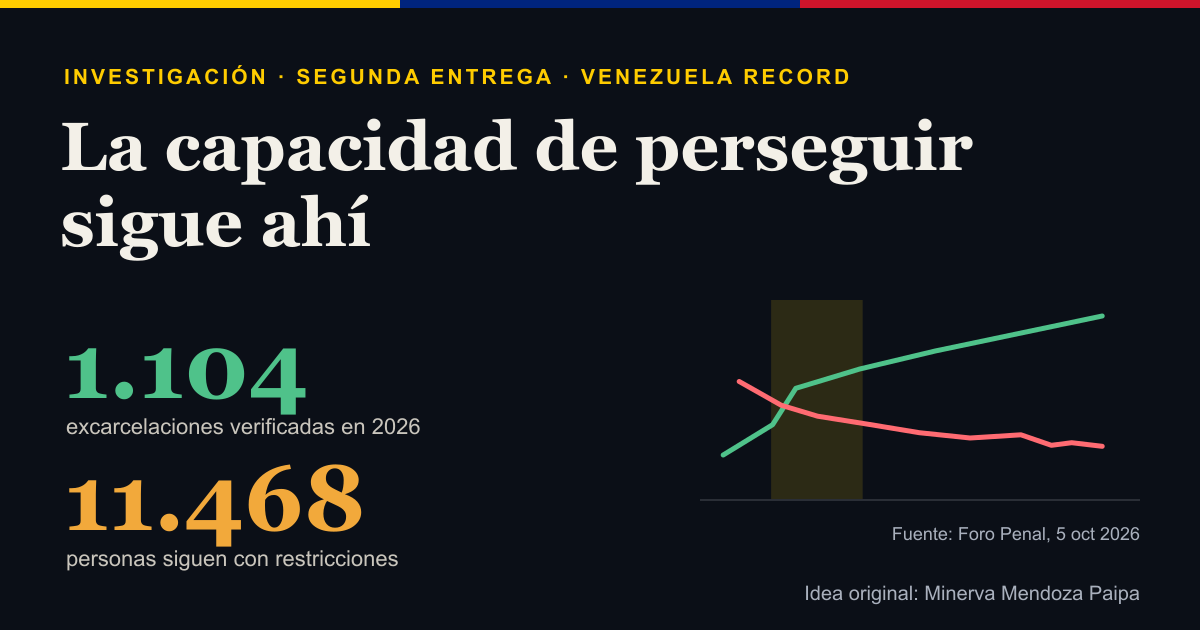
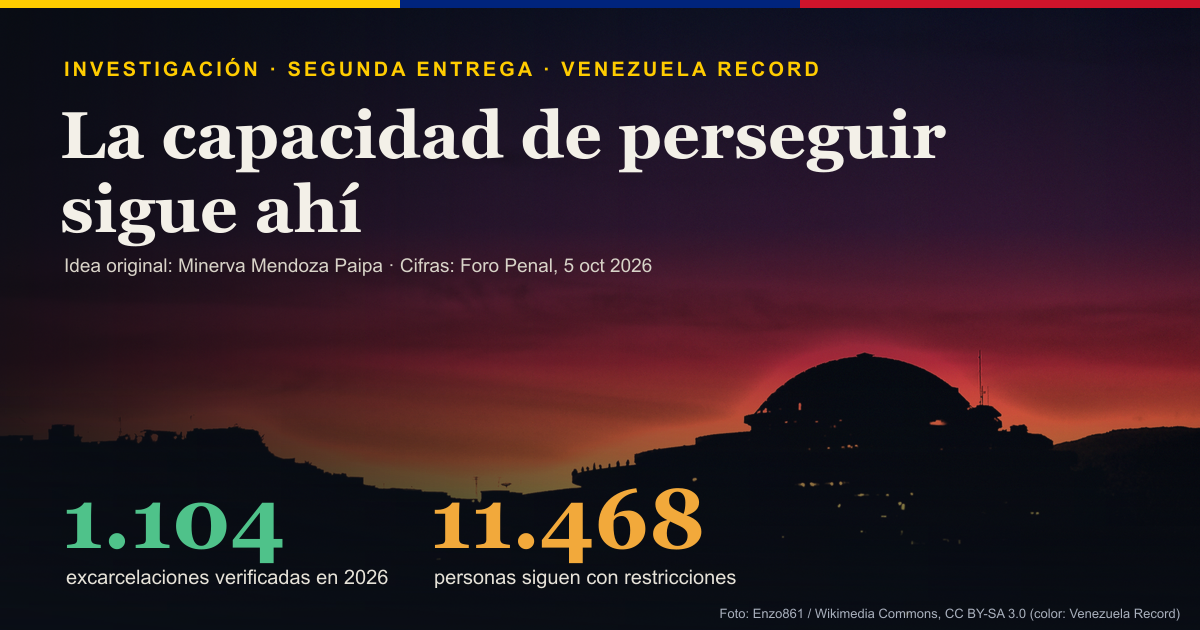
Preview: part two cover — El Helicoide at dusk (Enzo861, CC BY-SA 3.0) with colour treatment
- Cover, full-width hero photo band and social images built from the Commons photo; credit shown next to the
  image in the cards, the hero and the part-one card (coverCredit).
- Photo cards fill the card height on wide screens.
- Source photo and scripts kept in the repo (scripts/investigation-cover-2.py, investigation-social-2.mjs).

diff --git a/src/data/investigations/residual-capacity-2026.ts b/src/data/investigations/residual-capacity-2026.ts
@@ -6,7 +6,8 @@ import type { InvestigationMeta, L, Source } from './types';
 import { SOURCES as PART1 } from './who-commands-venezuela-2026';
 import ogEn from '../../assets/investigations/residual-capacity-2026/social-en.png';
 import ogEs from '../../assets/investigations/residual-capacity-2026/social-es.png';
-import cover from '../../assets/investigations/residual-capacity-2026/cover.png';
+import cover from '../../assets/investigations/residual-capacity-2026/cover.jpg';
+import hero from '../../assets/investigations/residual-capacity-2026/hero.jpg';
 
 export const META: InvestigationMeta = {
   slug: 'residual-capacity-2026',
@@ -23,6 +24,14 @@ export const META: InvestigationMeta = {
   updated: '2026-10-20',
   ideaBy: 'Minerva Mendoza Paipa',
   cover,
+  hero,
+  coverCredit: {
+    text: {
+      en: 'Photo: El Helicoide, SEBIN headquarters in Caracas, at dusk. Enzo861 / Wikimedia Commons, CC BY-SA 3.0; colour treatment by Venezuela Record.',
+      es: 'Foto: El Helicoide, sede del SEBIN en Caracas, al atardecer. Enzo861 / Wikimedia Commons, CC BY-SA 3.0; tratamiento de color de Venezuela Record.',
+    },
+    url: 'https://commons.wikimedia.org/wiki/File:Atardecer_y_Helicoide.JPG',
+  },
   social: { en: ogEn, es: ogEs },
 };
 

diff --git a/src/data/investigations/types.ts b/src/data/investigations/types.ts
@@ -26,6 +26,10 @@ export interface InvestigationMeta {
   /** Who proposed the idea (credited, never as author) */
   ideaBy: string;
   cover?: ImageMetadata;
+  /** Credit for a cover that uses third-party material (license requires it next to the image). */
+  coverCredit?: { text: L; url: string };
+  /** Optional full-width photo band in the page hero. */
+  hero?: ImageMetadata;
   social: Record<Lang, ImageMetadata>;
 }
 

diff --git a/scripts/investigation-cover-2.py b/scripts/investigation-cover-2.py
@@ -1,0 +1,63 @@
+# Cover, hero band and social background for investigation 2: El Helicoide at dusk.
+# Source photo: "Atardecer y Helicoide" by Enzo861, CC BY-SA 3.0, Wikimedia Commons
+# (https://commons.wikimedia.org/wiki/File:Atardecer_y_Helicoide.JPG), kept in brand/investigations/residual-capacity-2026/.
+# The derived images are shared under the same license (CC BY-SA 3.0) and credited wherever they appear.
+# Dramatic grade: sky mapped to a dusk gradient (night navy -> crimson -> amber at the horizon) keeping the cloud
+# texture of the original; the building and the city stay as a near-black silhouette. No text.
+#   python scripts/investigation-cover-2.py   (needs Pillow + numpy), then: node scripts/investigation-social-2.mjs
+import sys
+import numpy as np
+from PIL import Image, ImageFilter
+
+BRAND = 'brand/investigations/residual-capacity-2026'
+ASSETS = 'src/assets/investigations/residual-capacity-2026'
+src = f'{BRAND}/helicoide-atardecer-enzo861.jpg'
+im = Image.open(src).convert('RGB')
+
+
+def render(cw, ratio, dome_x=0.62, dome_y=0.5, size=(2400, 1260)):
+    ch = round(cw / ratio)
+    x0 = 1490 - int(dome_x * cw)
+    y0 = 825 - int(dome_y * ch)
+    crop = im.crop((x0, y0, x0 + cw, y0 + ch)).resize(size, Image.LANCZOS)
+    a = np.asarray(crop).astype(np.float32) / 255.0
+    l = 0.2126 * a[..., 0] + 0.7152 * a[..., 1] + 0.0722 * a[..., 2]
+    h, w = l.shape
+    # Sky mask: bright pixels, softened (the silhouette edge stays crisp because the city is ~black).
+    sky = np.clip((l - 0.06) / 0.22, 0, 1)
+    sky = np.asarray(Image.fromarray((sky * 255).astype(np.uint8)).filter(ImageFilter.GaussianBlur(1.2))).astype(np.float32) / 255
+    # Horizon line ~ where the skyline sits (fraction of height).
+    hz = 0.80 if size[1] / size[0] < 0.6 else 0.78
+    yy = np.mgrid[0:h, 0:w][0] / h
+    t = np.clip(yy / hz, 0, 1)  # 0 at top, 1 at horizon
+    stops = [(0.0, (14, 18, 38)), (0.45, (52, 24, 52)), (0.72, (140, 34, 46)), (0.9, (226, 104, 54)), (1.0, (246, 170, 80))]
+    grad = np.zeros((h, w, 3), np.float32)
+    for (p0, c0), (p1, c1) in zip(stops, stops[1:]):
+        m = (t >= p0) & (t <= p1)
+        k = ((t - p0) / (p1 - p0))[..., None]
+        grad = np.where(m[..., None], np.array(c0) + (np.array(c1) - np.array(c0)) * k, grad)
+    grad /= 255.0
+    # Cloud texture from the original luminance (relative to its local mean).
+    blur = np.asarray(Image.fromarray((l * 255).astype(np.uint8)).filter(ImageFilter.GaussianBlur(40))).astype(np.float32) / 255
+    detail = np.clip((l - blur) * 2.2 + 1.0, 0.7, 1.35)[..., None]
+    skycol = np.clip(grad * detail, 0, 1)
+    ground = np.array([8, 11, 18]) / 255.0
+    # City lights: keep small bright points inside the dark area, warmed.
+    lights = np.clip((l - 0.25) * 3, 0, 1)[..., None] * (1 - sky[..., None]) * np.array([1.0, 0.85, 0.55])
+    out = skycol * sky[..., None] + ground * (1 - sky[..., None]) + lights * 0.8
+    # Vignette, heavier at the left and bottom.
+    xx = np.mgrid[0:h, 0:w][1] / w
+    vig = np.clip(1.08 - 0.5 * ((xx - 0.62) ** 2 / 0.35 + (yy - 0.42) ** 2 / 0.6), 0.45, 1)[..., None]
+    out *= vig
+    rng = np.random.default_rng(11)
+    out = np.clip(out + rng.normal(0, 0.010, out.shape), 0, 1)
+    return Image.fromarray((out * 255).astype(np.uint8))
+
+
+card = render(1760, 1200 / 630)
+card.save(f'{ASSETS}/hero.jpg', quality=86, optimize=True, progressive=True)
+card.resize((1200, 630), Image.LANCZOS).save(f'{ASSETS}/cover.jpg', quality=88, optimize=True, progressive=True)
+# Wider sky for the social images (text sits on the left over the dark sky).
+social = render(2000, 1200 / 630, dome_x=0.72, dome_y=0.56)
+social.resize((1200, 630), Image.LANCZOS).save(f'{BRAND}/social-bg.png', optimize=True)
+print('ok')

diff --git a/CLAUDE.md b/CLAUDE.md
@@ -168,7 +168,10 @@ su título en `originalTitle`); traduce también `imageAlt` (el script deja uno 
   algunas con la primera por id) en `src/data/investigations/residual-capacity-2026.ts`; vista
   `ResidualCapacityPage.astro`; componentes `FpSeries` (serie de Foro Penal, cada cifra enlaza a su balance con fecha,
   nunca a «Represión en cifras», que cambia) y `Capacity` (tres componentes separados en pestañas: capacidad disponible,
-  ejercicio documentado, riesgo de repetición). Imagen social: `node scripts/investigation-social-2.mjs`.
+  ejercicio documentado, riesgo de repetición). Portada, franja de la cabecera e imágenes sociales: foto «Atardecer y
+  Helicoide» (Enzo861, Wikimedia Commons, **CC BY-SA 3.0**, original en `brand/investigations/residual-capacity-2026/`)
+  con tratamiento de color: `python scripts/investigation-cover-2.py` y luego `node scripts/investigation-social-2.mjs`.
+  El crédito (`coverCredit`) es obligatorio junto a la imagen: tarjeta, cabecera y tarjeta `NextPart`.
   La primera entrega termina con la tarjeta `NextPart`.
 - Compartido entre investigaciones: `src/styles/investigation.css` (tokens y cabeceras), `InvToc` (índice fijo),
   `PieceMethod` (método + fuentes de piezas nuevas) y las **fichas de fuente**: cada número de cita (`Cite`) abre una
